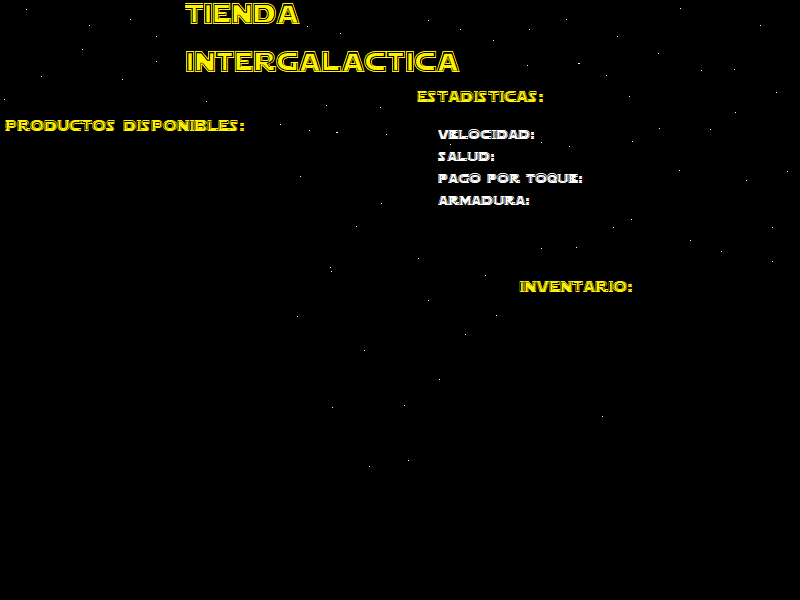
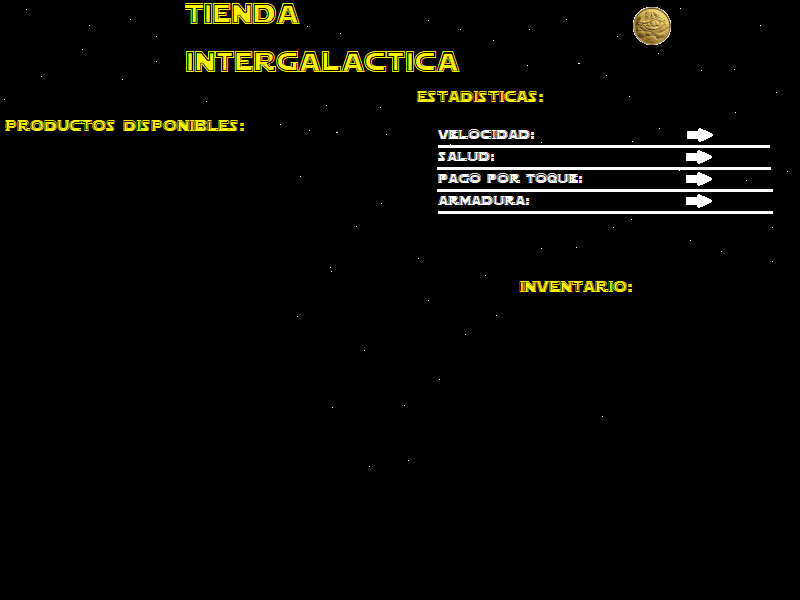
modificaciones en la ventana tienda

Changed region(s): [[0.5625, 0.21, 0.9688, 0.36], [0.7812, 0.0, 0.8438, 0.09]]

diff --git a/src/Interfaz/Ventana.java b/src/Interfaz/Ventana.java
@@ -4,7 +4,7 @@ import javax.swing.*;
 import java.awt.*;
 
 
-public class Ventana extends JPanel    {
+public class Ventana extends JPanel {
     public int getClickX() {
         return clickX;
     }
@@ -22,56 +22,79 @@ public class Ventana extends JPanel    {
     }
 
 
-    private int clickX,clickY;
-    public int r2_posx=500;
-    public int r2_frame=0;
+    private int clickX, clickY;
+    public int r2_posx = 500;
+    public int r2_frame = 0;
+    static JLabel label_toque;
+    int dinero=15;
 
     public Ventana() {
     }
 
 
-    public void paint(Graphics g){
+    public void paint(Graphics g) {
         super.paint(g);
 
         setDoubleBuffered(true);
         //se declaran las variable para cada una de las imagenes y frames del juego
-        ImageIcon img_fondo=new ImageIcon(new ImageIcon(getClass().getResource("/Imagenes/Fondo.jpg")).getImage());//imagen de fondo
-        ImageIcon r2f1 = new ImageIcon(new ImageIcon(getClass().getResource("/Imagenes/movimiento.gif")).getImage());//||
+        ImageIcon img_fondo = new ImageIcon(new ImageIcon(getClass().getResource("/Imagenes/Fondo.png")).getImage());//imagen de fondo
+        ImageIcon r2f1 = new ImageIcon(new ImageIcon(getClass().getResource("/Imagenes/R2frame1.png")).getImage());//||
         ImageIcon r2f2 = new ImageIcon(new ImageIcon(getClass().getResource("/Imagenes/R2frame2.png")).getImage());//||Sprites de R2D2
         ImageIcon r2f3 = new ImageIcon(new ImageIcon(getClass().getResource("/Imagenes/R2frame3.png")).getImage());//||
 
-        g.drawImage(img_fondo.getImage(),0,0,null);
+        g.drawImage(img_fondo.getImage(), 0, 0, null);
 
 
-        if(clickX>512 && clickX<1024){ //si se detecta un click en la parte izquierda de la pantalla
-            r2_posx=r2_posx+40; //el personaje avanza a la izquierda
-            r2_frame+=1;
-            setClickX(2000);
+        String moni=new String("15");
+        g.drawString(moni,60,60);
+
+
+        if (clickX > 631 && clickX < 1024) { //si se detecta un click en la parte derecha de la pantalla
+            if (r2_posx<800) {
+                r2_posx = r2_posx + 40; //el personaje avanza a la derecha
+                r2_frame += 1;  //se cambia el frame que está R2D2
+                clickX = -1;  //las coordenadas del click se reinician y se colocan en una posicion neutral
+                clickY = -1;
+            }else{
+                System.out.println("Ganando guita a la derecha");
+                clickX = -1;  //las coordenadas del click se reinician y se colocan en una posicion neutral
+                clickY = -1;
+            }
         }
 
-        if(clickX<512 && clickX>0){
+        if (clickX < 389 && clickX > 0) { //si se detecta un click en la parte izquierda de la pantalla
+            if (r2_posx>150) {
+                r2_frame += 1;
+                r2_posx = r2_posx - 40; //el personaje avanza a la izquierda
+                clickX = -1;  //las coordenadas del click se reinician y se colocan en una posicion neutral
+                clickY = -1;
+            }else{
+                System.out.println("Ganando guita izquierda");
+                label_toque.setBounds(clickX,clickY,100,100);
 
+                clickX = -1;  //las coordenadas del click se reinician y se colocan en una posicion neutral
+                clickY = -1;
+            }
         }
-        if (r2_frame==0){
-            g.drawImage(r2f1.getImage(),r2_posx, 250, null);
+        if (clickX>390 && clickX<630 && clickY>58 && clickY<148){  //si se detecta click dentro de las coordenadas del boton de tienda
+            Mostrador mostrador=new Mostrador(); //se abre la ventana del mostrador de la tienda
+            System.out.println("equis"+clickY);
+            clickX=-1;  //las coordenadas del click se reinician y se colocan en una posicion neutral
+            clickY=-1;
         }
-        if (r2_frame==1){
-            g.drawImage(r2f3.getImage(),r2_posx, 250, null);
+        if (r2_frame == 0) {
+            g.drawImage(r2f1.getImage(), r2_posx, 250, null);
         }
-        if (r2_frame==2) {
-            g.drawImage(r2f3.getImage(),r2_posx, 250, null);
-            r2_frame=0;
+        if (r2_frame == 1) {
+            g.drawImage(r2f2.getImage(), r2_posx, 250, null);
+        }
+        if (r2_frame == 2) {
+            g.drawImage(r2f3.getImage(), r2_posx, 250, null);
+            r2_frame = 0;
         }
 
         repaint();
 
 
     }
-
-
-
-
-
-
-
 }

diff --git a/src/Interfaz/Mostrador.java b/src/Interfaz/Mostrador.java
@@ -5,6 +5,7 @@ import java.awt.*;
 
 public class Mostrador extends JFrame{
 
+    int dinero=10;
     static JFrame frame;
     static JList inventario_tienda;
     static JList inventario_personaje;
@@ -13,24 +14,42 @@ public class Mostrador extends JFrame{
     static JLabel velocidad;
     static JLabel vida;
     static JLabel pago;
+    static JLabel label_dinero;
     static JLabel armadura;
     static JButton b_comprar;
+    static JButton b_vender;
 
     public Mostrador(){
         //se crean las instancias principales que va a tener la ventana del mostrador de la tienda
-        frame=new JFrame("frame");
+        frame=new JFrame("Tienda");
         velocidad=new JLabel("9");
         vida=new JLabel("12");
         pago=new JLabel("15:");
         armadura=new JLabel("5");
+        label_dinero=new JLabel("1519");
         b_comprar=new JButton("Comprar");
+        b_vender=new JButton("Vender");
         Fondo_mostrador fondo=new Fondo_mostrador();
 
         //se define la fuente y el tamaño que van a tener los label que informan de las estadicas
-        velocidad.setFont(new Font("Helvetica", Font.PLAIN, 14));
-        vida.setFont(new Font("Helvetica", Font.PLAIN, 14));
-        pago.setFont(new Font("Helvetica", Font.PLAIN, 14));
-        armadura.setFont(new Font("Helvetica", Font.PLAIN, 14));
+        velocidad.setFont(new Font("Franklin Gothic Heavy", Font.PLAIN, 14));
+        vida.setFont(new Font("Franklin Gothic Heavy", Font.PLAIN, 14));
+        pago.setFont(new Font("Franklin Gothic Heavy", Font.PLAIN, 14));
+        armadura.setFont(new Font("Franklin Gothic Heavy", Font.PLAIN, 14));
+        label_dinero.setFont(new Font("Franklin Gothic Heavy", Font.PLAIN, 26));
+
+
+        b_comprar.setBackground(Color.BLACK);
+        b_comprar.setForeground(Color.YELLOW);
+
+        b_vender.setBackground(Color.BLACK);
+        b_vender.setForeground(Color.YELLOW);
+
+        velocidad.setForeground(Color.WHITE);
+        vida.setForeground(Color.WHITE);
+        pago.setForeground(Color.WHITE);
+        armadura.setForeground(Color.WHITE);
+        label_dinero.setForeground(Color.ORANGE);
 
 
 
@@ -58,6 +77,17 @@ public class Mostrador extends JFrame{
         inventario_tienda=new JList(articulos);
         inventario_personaje=new JList(string_inventario);
 
+        inventario_personaje.setBackground(Color.black);
+        inventario_tienda.setBackground(Color.black);
+
+
+        inventario_personaje.setForeground(Color.WHITE);
+        inventario_tienda.setForeground(Color.WHITE);
+
+
+        inventario_personaje.setFont(new Font("Franklin Gothic Heavy", Font.PLAIN, 18));
+        inventario_tienda.setFont(new Font("Franklin Gothic Heavy", Font.PLAIN, 18));
+
 
         scroll_tienda=new JScrollPane();
         scroll_inventario=new JScrollPane();
@@ -67,30 +97,33 @@ public class Mostrador extends JFrame{
 
 
         panel_tienda.add(b_comprar);
+        panel_tienda.add(b_vender);
         panel_tienda.add(scroll_inventario);
         panel_tienda.add(scroll_tienda);
         panel_tienda.add(velocidad);
         panel_tienda.add(vida);
         panel_tienda.add(pago);
         panel_tienda.add(armadura);
+        panel_tienda.add(label_dinero);
         panel_tienda.add(fondo);
 
         fondo.setBounds(0,0,800,600);
-        b_comprar.setBounds(400,500,80,49);
+        b_comprar.setBounds(400,501,85,49);
+        b_vender.setBounds(693,250,85,49);
 
         scroll_inventario.setBounds(500,300,280,250);
         scroll_tienda.setBounds(0,150,400,400);
 
         velocidad.setBounds(540,83,200,100);
         vida.setBounds(500,106,200,100);
-        pago.setBounds(583,126,200,100);
-        armadura.setBounds(535,149,200,100);
+        pago.setBounds(588,128,200,100);
+        armadura.setBounds(535,150,200,100);
+        label_dinero.setBounds(700,-5,200,60);
 
 
 
-
-        frame.setDefaultCloseOperation(JFrame.EXIT_ON_CLOSE);
-
+        frame.setDefaultCloseOperation(JFrame.HIDE_ON_CLOSE);
+        frame.setResizable(false);
 
 
         frame.add(panel_tienda);

diff --git a/src/Interfaz/GestionIU.java b/src/Interfaz/GestionIU.java
@@ -5,49 +5,38 @@ import java.awt.*;
 import java.awt.event.MouseEvent;
 import java.awt.event.MouseListener;
 
-public class GestionIU  extends JFrame {
-    //Ventana ventana=new Ventana();
-    Mostrador mostrador=new Mostrador();
-    //static JFrame f;
-    //static JList b;
+public class GestionIU  extends JFrame implements MouseListener {
+    Ventana ventana=new Ventana();
+    static JFrame ventana_frame;
+    JLabel label_dinero;
+
+
+
+
 
     public GestionIU(){
-
-
-        /*
         JFrame ventana_frame=new JFrame();
-        f=new JFrame("frame");
-        setTitle("Tienda");
+        label_dinero =new JLabel("150");
+        label_dinero.setFont(new Font("Franklin Gothic Heavy", Font.PLAIN, 26));
+        label_dinero.setForeground(Color.ORANGE);
+
+        JPanel panel_juego=new JPanel(null);
+        panel_juego.add(label_dinero);
+        label_dinero.setBounds(25,25,200,200);
+
         setDefaultCloseOperation(EXIT_ON_CLOSE);
-        //addMouseListener(this);
-        JPanel panel_tienda=new JPanel();
-        JLabel label_articulos= new JLabel("seleccione el articulo a comprar");
-        String articulos[]={"bombillo          jsjs          ","propulsor      sjsj","cable sj"};
-        b=new JList(articulos);
-        //b.setSelectedIndex(2);
-        panel_tienda.add(b);
-        panel_tienda.setBackground(Color.BLACK);
-        f.add(panel_tienda);
-        f.setSize(300,300);
-        f.show();
-        b.getSelectedIndex();
-
-
-
-
+        addMouseListener(this);
+        add(panel_juego);
         add(ventana);
         setSize(1024,576);
         setVisible(true);
 
-*/
     }
-/*
+
     @Override
     public void mouseClicked(MouseEvent e) {
-    //mostrador.setClickX(e.getX()); //metodo que al clickear detecte la posicion X del mouse
-    //mostrador.setClickY(e.getY());
-    //ventana.setClickX(e.getX()); //metodo que al clickear detecte la posicion X del mouse
-    //ventana.setClickY(e.getY()); //metodo que al clickear detecte la posicion y del mouse
+    ventana.setClickX(e.getX()); //metodo que al clickear detecte la posicion X del mouse
+    ventana.setClickY(e.getY()); //metodo que al clickear detecte la posicion y del mouse
     }
 
     @Override
@@ -69,7 +58,9 @@ public class GestionIU  extends JFrame {
 
     }
 
-*/
+
+
+
 
 
     public static void main(String args[]){
